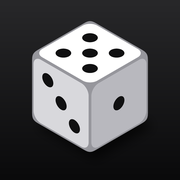
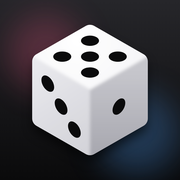
Add files via upload

diff --git a/index.html b/index.html
@@ -12,9 +12,9 @@
 <meta name="apple-mobile-web-app-title" content="Carnet de jeux">
 <link rel="manifest" href="manifest.webmanifest">
 <script>try{var L=JSON.parse(localStorage.getItem('yz-look')||'null');if(L&&typeof L.h==='number'){document.documentElement.classList.add('tint');document.documentElement.style.setProperty('--h',L.h);}}catch(e){}</script>
-<link rel="apple-touch-icon" sizes="180x180" href="icon-180.png?v=9">
-<link rel="apple-touch-icon-precomposed" sizes="180x180" href="icon-180.png?v=9">
-<link rel="icon" type="image/png" sizes="192x192" href="icon-192.png?v=9">
+<link rel="apple-touch-icon" sizes="180x180" href="icon-180.png?v=10">
+<link rel="apple-touch-icon-precomposed" sizes="180x180" href="icon-180.png?v=10">
+<link rel="icon" type="image/png" sizes="192x192" href="icon-192.png?v=10">
 <style>:root{padding-top:env(safe-area-inset-top,0px);padding-bottom:env(safe-area-inset-bottom,0px);color-scheme:light}body{margin:0}img{max-width:100%}[hidden]{display:none!important}html{-webkit-text-size-adjust:100%}</style>
 </head>
 <body>
@@ -2169,7 +2169,7 @@ boot();
 
 <script>
 /* Offline + updates. Updating only replaces the app files; game data lives in localStorage and is never touched. */
-window.APP_VERSION = '21';
+window.APP_VERSION = '22';
 if('serviceWorker' in navigator){
   let reloading = false;
   navigator.serviceWorker.addEventListener('controllerchange', () => { if(reloading) return; reloading = true; location.reload(); });

diff --git a/sw.js b/sw.js
@@ -1,5 +1,5 @@
 /* Carnet de jeux — service worker. VERSION changes on every release. Only Cache Storage is managed here; localStorage (game data) is never touched. */
-const VERSION = 'v21';
+const VERSION = 'v22';
 const APP = 'carnet-app-' + VERSION, FONTS = 'carnet-fonts';
 const ASSETS = ['./', './index.html', './manifest.webmanifest', './icon-180.png', './icon-192.png', './icon-512.png', './firebase-13.1.0.js'];
 self.addEventListener('install', e => { e.waitUntil(caches.open(APP).then(c => c.addAll(ASSETS.map(u => new Request(u, {cache: 'reload'}))))); });
